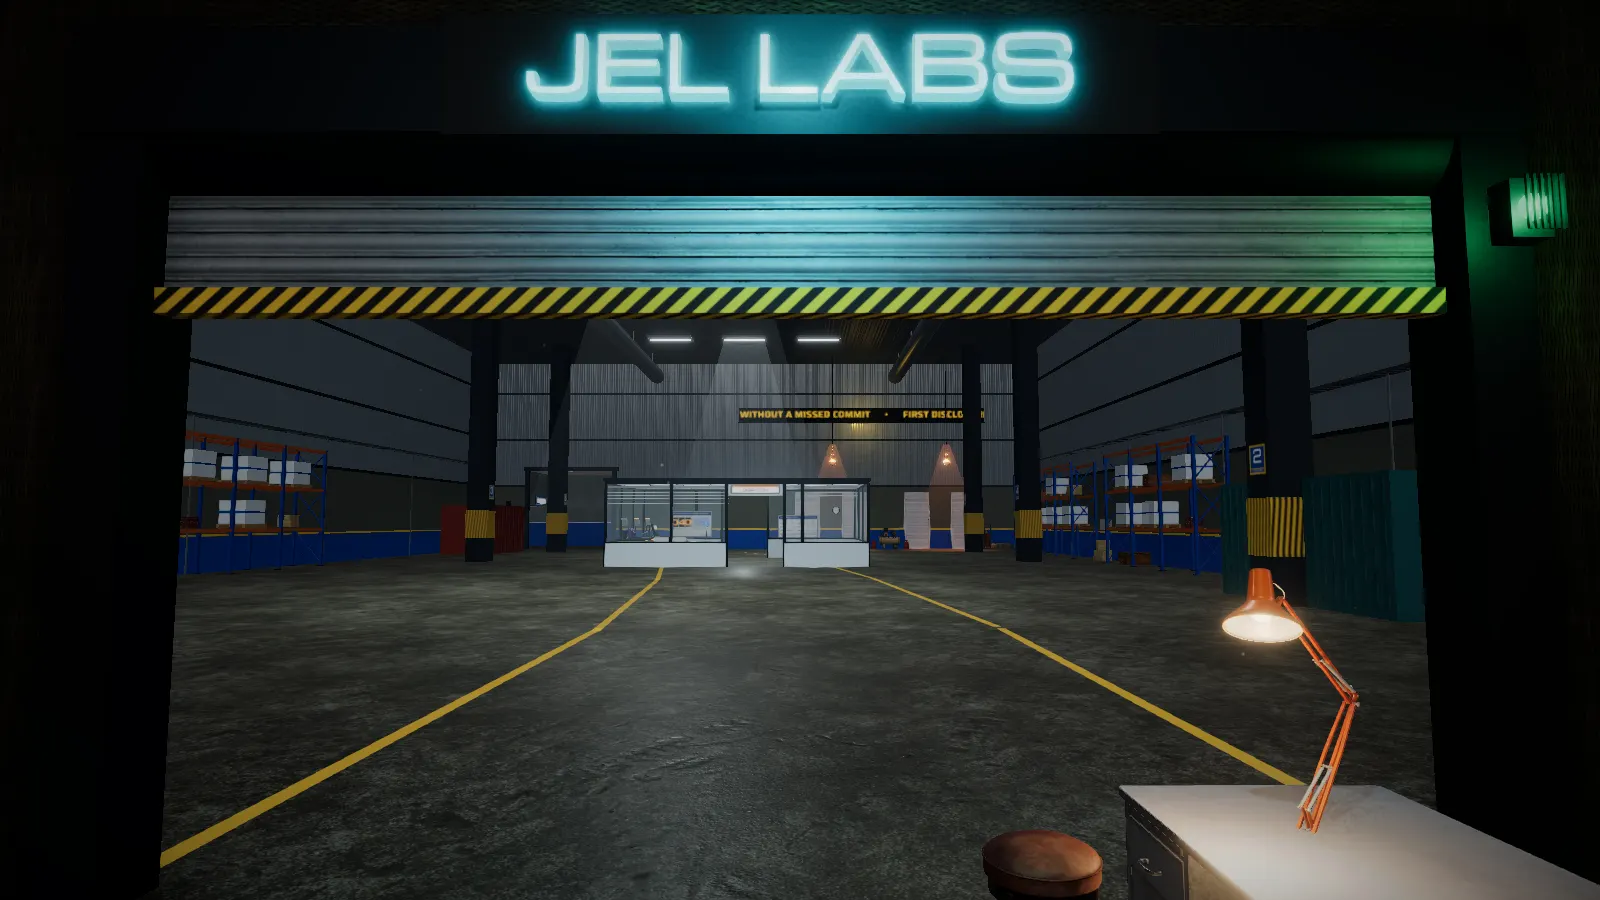
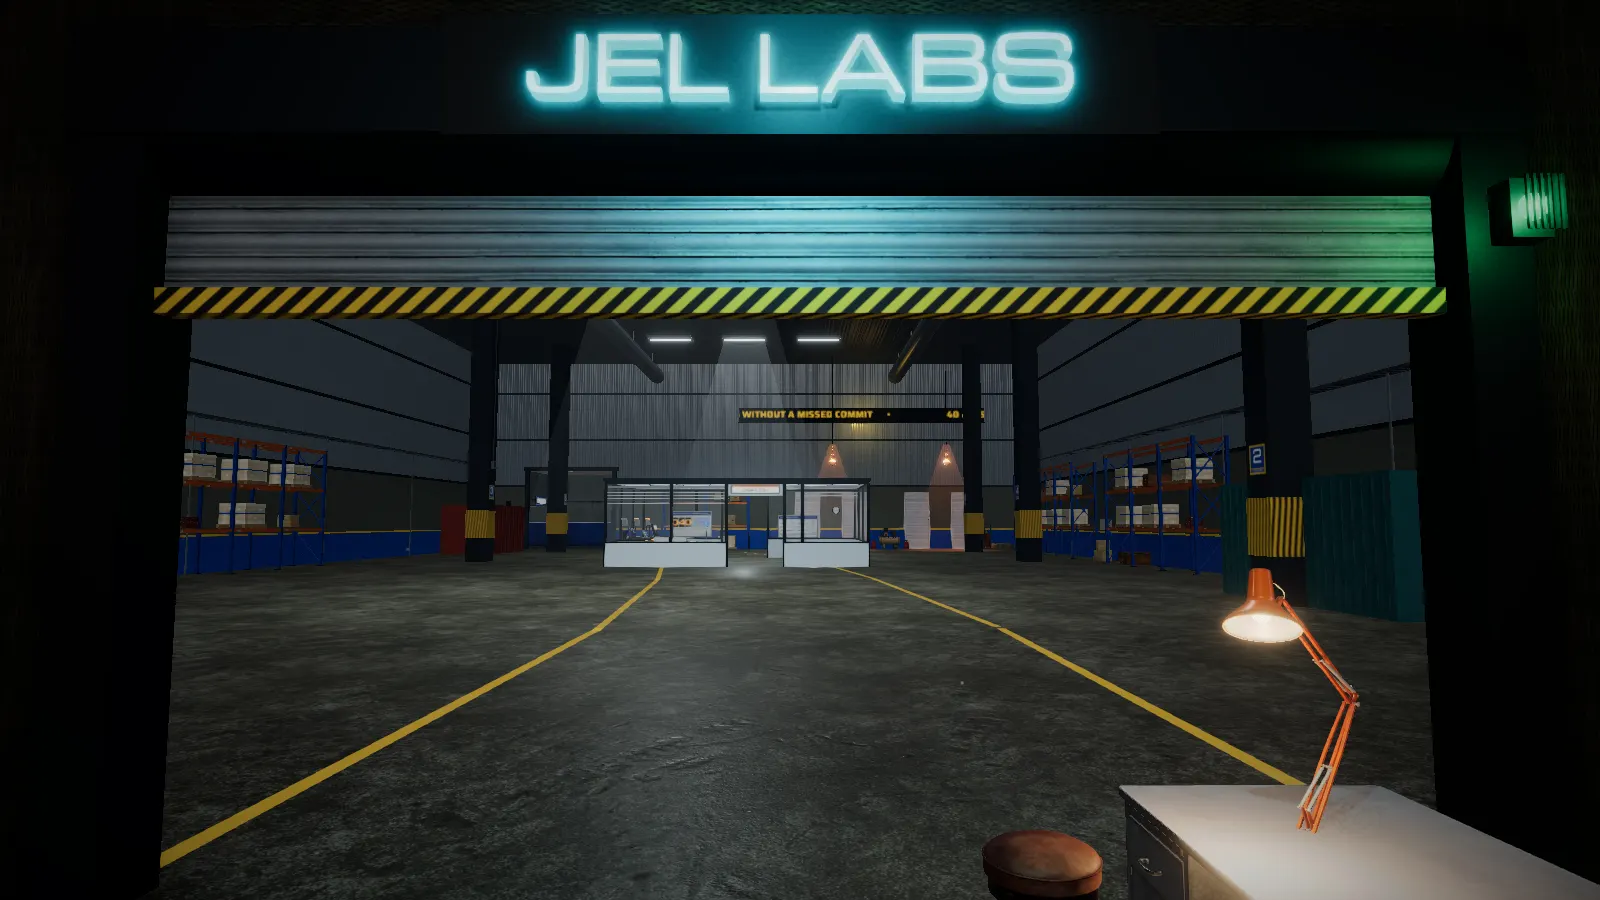
Stand the key up, wrap real stock, and let the plates be read
The key was drawn upright and then raked as if it lay flat, so the rake laid it on its back. It is
drawn face up like the other exhibits now and stands on a clear easel.

The wrapped pallets were milky boxes next to photographed cardboard. They are cartons under stretch
film now, on slatted pallets, and the racking has punched uprights and scuffed beams. The corridor
flight case lost the handle under its latches, which read as a face.

The break room television says JEL. The credential plates were lit past white, which washed out the
pale badges and the grey print, so the acrylic sits below clipping and the issuer line is darker.

diff --git a/src/scenes/walk/labs/props.ts b/src/scenes/walk/labs/props.ts
@@ -3,7 +3,7 @@ import type { AssetStore } from '../assets';
 import { instances, merged, type Spot } from '../merge';
 import { LABS, labSteel, labGlass, ceilingGrid } from './materials';
 import { stencilTexture } from '../textures';
-import { screenFace, paperSheet, chainlink, rng } from './textures';
+import { screenFace, paperSheet, chainlink, rng, canvas, own } from './textures';
 
 export function rackSlots(levels: number, height: number): number[] { return Array.from({ length: levels }, (_, i) => +(((i + 1) * height) / levels).toFixed(4)); }
 export { gridPitch } from './materials';
@@ -58,9 +58,10 @@ export function rackBays(bays: number, bayWidth = RACK_BAY): number[] {
 export function palletRack(bays = 3, levels = 3, bayWidth = RACK_BAY, height = RACK_HEIGHT): THREE.Group {
   const g = new THREE.Group(); const depth = RACK_DEPTH; const len = bays * bayWidth;
   const blue = new THREE.MeshStandardMaterial({ color: LABS.dado, roughness: 0.5, metalness: 0.4 });
+  const slotted = blue.clone(); slotted.map = uprightFace(height);
   const uprights: Spot[] = [], feet: Spot[] = [];
   for (let i = 0; i <= bays; i++) for (const z of [-depth / 2, depth / 2]) { uprights.push([-len / 2 + i * bayWidth, height / 2, z]); feet.push([-len / 2 + i * bayWidth, 0.01, z]); }
-  g.add(instances(new THREE.BoxGeometry(0.1, height, 0.1), blue, uprights));
+  g.add(instances(new THREE.BoxGeometry(0.1, height, 0.1), slotted, uprights));
   g.add(instances(new THREE.BoxGeometry(0.2, 0.02, 0.2), labSteel(0x39434b), feet));
   const level = height / levels;
   const braces: Spot[] = [];
@@ -68,7 +69,7 @@ export function palletRack(bays = 3, levels = 3, bayWidth = RACK_BAY, height = R
   for (const lean of [0.7, -0.7]) g.add(instances(new THREE.BoxGeometry(0.04, 1.5, 0.04).rotateX(lean), blue, braces));
   const beams: Spot[] = [];
   for (const y of rackSlots(levels, height)) for (const x of rackBays(bays, bayWidth)) for (const z of [-depth / 2, depth / 2]) beams.push([x, y - 0.08, z]);
-  g.add(instances(new THREE.BoxGeometry(bayWidth - 0.1, 0.12, 0.08), new THREE.MeshStandardMaterial({ color: 0xd8722c, roughness: 0.5, metalness: 0.4 }), beams));
+  g.add(instances(new THREE.BoxGeometry(bayWidth - 0.1, 0.12, 0.08), new THREE.MeshStandardMaterial({ color: 0xffffff, map: beamFace(), roughness: 0.5, metalness: 0.4 }), beams));
   // Wire decking, not a steel pan: the mesh is an alpha map on the deck, alpha tested so it writes
   // depth and keeps out of the transparent sort, and the beams show through the diamonds.
   const wire = chainlink(); wire.repeat.set(bayWidth / 0.2, depth / 0.2);
@@ -77,22 +78,132 @@ export function palletRack(bays = 3, levels = 3, bayWidth = RACK_BAY, height = R
   return g;
 }
 
-/** A shrink wrapped pallet of stock: three bearers and a deck under a load in milky film with a
- *  strap round its middle. `seed` picks the load's height, so a row of them is not a row of one
- *  box. 1.2 by 1.0 on plan, origin at the foot of the pallet. Three draw calls, so stand them up
- *  through `repeat()` rather than one at a time. */
+/** An upright's face: the Labs blue with the column of punched teardrop slots every rack upright
+ *  has for its beam connectors, 50 mm apart, and the paint chipped round a few of them where beams
+ *  have been moved. Tiled up the upright, one canvas to half a metre. */
+function uprightFace(height: number): THREE.CanvasTexture {
+  const W = 64, H = 320;
+  const [c, ctx] = canvas(W, H);
+  ctx.fillStyle = '#ffffff'; ctx.fillRect(0, 0, W, H);
+  const r = rng(5);
+  for (let y = 6; y < H; y += 32) {
+    if (r() < 0.25) { ctx.fillStyle = 'rgba(150,150,150,0.8)'; ctx.fillRect(W / 2 - 12, y - 3, 24, 26); }
+    ctx.fillStyle = '#10151b';
+    ctx.beginPath(); ctx.moveTo(W / 2 - 6, y); ctx.lineTo(W / 2 + 6, y); ctx.lineTo(W / 2 + 6, y + 10); ctx.lineTo(W / 2, y + 20); ctx.lineTo(W / 2 - 6, y + 10); ctx.closePath(); ctx.fill();
+  }
+  ctx.fillStyle = 'rgba(0,0,0,0.25)'; ctx.fillRect(0, 0, 3, H); ctx.fillRect(W - 3, 0, 3, H);
+  const t = own(c); t.wrapT = THREE.RepeatWrapping; t.repeat.set(1, height / 0.5);
+  return t;
+}
+
+/** A beam's face: safety orange with the stepped lip along its top edge in shadow, a load plate
+ *  near one end, and scuffs where pallets have been dragged along it. */
+function beamFace(): THREE.CanvasTexture {
+  const W = 1024, H = 48;
+  const [c, ctx] = canvas(W, H);
+  ctx.fillStyle = '#d8722c'; ctx.fillRect(0, 0, W, H);
+  ctx.fillStyle = 'rgba(0,0,0,0.35)'; ctx.fillRect(0, 0, W, 6);
+  ctx.fillStyle = 'rgba(255,255,255,0.12)'; ctx.fillRect(0, 7, W, 2);
+  ctx.fillStyle = 'rgba(0,0,0,0.2)'; ctx.fillRect(0, H - 3, W, 3);
+  ctx.fillStyle = '#e9ecee'; ctx.fillRect(70, 14, 56, 24);
+  ctx.fillStyle = '#23282d'; ctx.fillRect(76, 19, 40, 4); ctx.fillRect(76, 27, 28, 4);
+  const r = rng(9);
+  for (let i = 0; i < 40; i++) {
+    ctx.fillStyle = r() < 0.7 ? `rgba(40,30,24,${0.15 + r() * 0.25})` : `rgba(230,230,230,${0.2 + r() * 0.2})`;
+    ctx.fillRect(r() * W, 8 + r() * (H - 12), 6 + r() * 40, 1 + r() * 3);
+  }
+  return own(c);
+}
+
+/** A shrink wrapped pallet of stock: a slatted deck on three stringers under a stack of cartons in
+ *  stretch film, with a strap round the middle. `seed` picks the load's height and how the cartons
+ *  are stacked, so a row of them is not a row of one box. 1.2 by 1.0 on plan, origin at the foot
+ *  of the pallet. Three draw calls, so stand them up through `repeat()` rather than one at a time.
+ *
+ *  The load used to be a milky box with no surface at all, which read as a block of plaster next
+ *  to the photographed cardboard boxes on the same racks. It is the cartons now, drawn under the
+ *  film: kraft faces, seams, tape and a label, with the wrap's bands and sheen over them. */
 export function wrappedPallet(seed = 1): THREE.Group {
   const g = new THREE.Group();
   const r = rng(seed);
-  const boards: THREE.BufferGeometry[] = [new THREE.BoxGeometry(1.2, 0.02, 1.0).translate(0, 0.11, 0)];
-  for (const z of [-0.45, 0, 0.45]) boards.push(new THREE.BoxGeometry(1.2, 0.1, 0.1).translate(0, 0.05, z));
-  g.add(merged(boards, new THREE.MeshStandardMaterial({ color: 0x9c7f5a, roughness: 0.9 })));
-  const h = 0.7 + r() * 0.6;
-  const load = new THREE.Mesh(new THREE.BoxGeometry(1.1, h, 0.9), new THREE.MeshPhysicalMaterial({ color: 0xdfe6ea, transmission: 0, roughness: 0.35, transparent: true, opacity: 0.85 }));
+  const boards: THREE.BufferGeometry[] = [];
+  for (let i = 0; i < 7; i++) boards.push(new THREE.BoxGeometry(0.14, 0.022, 1.0).translate(-0.53 + i * (1.06 / 6), 0.109, 0));
+  for (const z of [-0.45, 0, 0.45]) boards.push(new THREE.BoxGeometry(1.2, 0.098, 0.1).translate(0, 0.049, z));
+  g.add(merged(boards, new THREE.MeshStandardMaterial({ color: 0x9c7f5a, roughness: 0.92 })));
+  const rows = 2 + Math.floor(r() * 2), h = rows * 0.36;
+  const geo = new THREE.BoxGeometry(1.1, h, 0.9);
+  // One texture for the whole load: the sides from its left three quarters, the carton tops from
+  // the last quarter. The faces are ordered +x, -x, +y, -y, +z, -z, four vertices each.
+  const uv = geo.getAttribute('uv') as THREE.BufferAttribute;
+  for (let f = 0; f < 6; f++) for (let v = f * 4; v < f * 4 + 4; v++) {
+    uv.setX(v, f === 2 || f === 3 ? 0.75 + uv.getX(v) * 0.25 : uv.getX(v) * 0.75);
+  }
+  const film = wrappedLoad(rows, seed);
+  const load = new THREE.Mesh(geo, new THREE.MeshPhysicalMaterial({ map: film, roughness: 0.62, clearcoat: 0.7, clearcoatRoughness: 0.28 }));
   load.position.y = 0.12 + h / 2; g.add(load);
-  const strap = new THREE.Mesh(new THREE.BoxGeometry(1.12, 0.05, 0.92), new THREE.MeshStandardMaterial({ color: LABS.dado, roughness: 0.7 }));
-  strap.position.y = 0.12 + h / 2; g.add(strap);
+  const strap = new THREE.Mesh(new THREE.BoxGeometry(1.106, 0.035, 0.906), new THREE.MeshStandardMaterial({ color: LABS.dado, roughness: 0.7 }));
+  strap.position.y = 0.12 + h * (0.45 + r() * 0.15); g.add(strap);
   return g;
+}
+
+/** The carton stack under stretch film, as one canvas: 768 by 512 of side for a face 1.1 wide and
+ *  `rows` cartons tall, then 256 of carton tops. */
+function wrappedLoad(rows: number, seed: number): THREE.CanvasTexture {
+  const W = 1024, H = 512, SW = 768;
+  const [c, ctx] = canvas(W, H);
+  const r = rng(seed * 7 + 3);
+  const carton = (x: number, y: number, w: number, h: number, top: boolean) => {
+    const tone = 150 + Math.floor(r() * 26);
+    ctx.fillStyle = `rgb(${tone + 22},${tone - 6},${tone - 52})`; ctx.fillRect(x, y, w, h);
+    for (let i = 0; i < 60; i++) {
+      ctx.fillStyle = `rgba(${r() < 0.5 ? '255,235,200' : '60,40,20'},${0.04 + r() * 0.05})`;
+      ctx.fillRect(x + r() * w, y + r() * h, 2 + r() * 30, 1 + r() * 3);
+    }
+    ctx.fillStyle = 'rgba(40,26,12,0.55)'; ctx.fillRect(x, y, w, 3); ctx.fillRect(x, y, 3, h);
+    // The tape: across the flaps on a top, down the join on a side.
+    ctx.fillStyle = 'rgba(214,190,140,0.75)';
+    if (top) ctx.fillRect(x + w / 2 - 9, y, 18, h); else ctx.fillRect(x, y, w, 12);
+    if (!top && r() < 0.55) {
+      const lx = x + 18 + r() * (w - 110), ly = y + 26 + r() * (h - 90);
+      ctx.fillStyle = '#eceae2'; ctx.fillRect(lx, ly, 76, 50);
+      ctx.fillStyle = '#23282d';
+      for (let b = 0; b < 16; b++) ctx.fillRect(lx + 6 + b * 4, ly + 28, r() < 0.5 ? 1 : 2, 16);
+      ctx.fillRect(lx + 6, ly + 8, 44, 5); ctx.fillRect(lx + 6, ly + 17, 30, 4);
+    }
+    if (!top && r() < 0.4) {
+      ctx.strokeStyle = 'rgba(30,24,18,0.7)'; ctx.lineWidth = 4;
+      const ax = x + w - 34, ay = y + h - 30;
+      ctx.beginPath(); ctx.moveTo(ax, ay); ctx.lineTo(ax, ay - 34); ctx.moveTo(ax - 9, ay - 24); ctx.lineTo(ax, ay - 34); ctx.lineTo(ax + 9, ay - 24); ctx.stroke();
+    }
+  };
+  // The side: rows of cartons, the joints staggered row to row the way a stack is built.
+  const rh = H / rows;
+  for (let row = 0; row < rows; row++) {
+    const n = 3 + (row % 2), cw = SW / n, off = row % 2 ? -cw / 2 : 0;
+    for (let i = 0; i <= n; i++) carton(off + i * cw, row * rh, cw, rh, false);
+  }
+  for (let i = 0; i < 2; i++) for (let j = 0; j < 2; j++) carton(SW + i * 128, j * 256, 128, 256, true);
+  // The film over it all: a milky veil, heavier where the wrap doubles at the top and the foot,
+  // bands where each pass of the roll overlaps the last, and vertical sheen along the stretch.
+  const veil = ctx.createLinearGradient(0, 0, 0, H);
+  veil.addColorStop(0, 'rgba(236,240,244,0.55)'); veil.addColorStop(0.18, 'rgba(236,240,244,0.26)');
+  veil.addColorStop(0.8, 'rgba(236,240,244,0.24)'); veil.addColorStop(1, 'rgba(236,240,244,0.6)');
+  ctx.fillStyle = veil; ctx.fillRect(0, 0, SW, H);
+  ctx.fillStyle = 'rgba(236,240,244,0.3)'; ctx.fillRect(SW, 0, W - SW, H);
+  for (let y = 30 + r() * 30; y < H; y += 60 + r() * 50) {
+    ctx.fillStyle = `rgba(245,248,250,${0.12 + r() * 0.12})`;
+    ctx.beginPath(); ctx.moveTo(0, y); ctx.lineTo(SW, y - 30 + r() * 60); ctx.lineTo(SW, y + 10 + r() * 40); ctx.lineTo(0, y + 22); ctx.fill();
+  }
+  for (let i = 0; i < 26; i++) {
+    const x = r() * SW, w = 3 + r() * 16;
+    ctx.fillStyle = `rgba(255,255,255,${0.05 + r() * 0.12})`; ctx.fillRect(x, 0, w, H);
+  }
+  for (let i = 0; i < 18; i++) {
+    ctx.strokeStyle = `rgba(255,255,255,${0.1 + r() * 0.2})`; ctx.lineWidth = 1 + r() * 2;
+    const x = r() * SW, y = r() * H;
+    ctx.beginPath(); ctx.moveTo(x, y); ctx.quadraticCurveTo(x + 20 - r() * 40, y + 30, x + 30 - r() * 60, y + 60 + r() * 60); ctx.stroke();
+  }
+  return own(c);
 }
 
 /** A 20 ft shipping container, 6.1 by 2.6 by 2.4, ribbed sides. Origin at floor centre, long axis

diff --git a/src/scenes/walk/stages/fabrication/exhibits.ts b/src/scenes/walk/stages/fabrication/exhibits.ts
@@ -81,33 +81,35 @@ export function controller(model: THREE.Object3D): THREE.Group {
 
 /**
  * ezkey.io: a key store, so a key. Brushed steel, a round bow with the product's cyan lit through
- * it, a long shaft and three bits standing up off it. It lies on its side across the cap, leaning
- * back a little on the stand, because the classic silhouette is the side view: stood on end and
- * raked toward the eye it read as a lollipop and hid its own label.
+ * it, a long shaft and three bits along its top edge, stood on a clear easel and leaned back the
+ * way a shop shows one.
+ *
+ * It is drawn face up on the y 0 plane like the other two, with its bits toward -z, the edge that
+ * ends up on top once the group is raked. It used to be drawn standing in the xy plane and then
+ * raked as if it lay flat, so the rake laid it on its back instead of standing it up: from the hold
+ * the bow was a disc seen edge on and the bits pointed at the lens.
  */
 export function key(): THREE.Group {
+  const LEAN = 1.15, BOW = 0.135, T = 0.03;
   const g = new THREE.Group();
-  // Raked to 1.15 rather than 0.6. At 0.6 the key is 34 degrees off the cap, which from the hold is
-  // a key seen almost down its own plane: the bow foreshortens into a sliver and the bits along the
-  // shaft disappear. Near upright it is the silhouette a key is recognised by, presented flat to
-  // the lens. The old note against standing it up was about standing it on its end, which turns it
-  // into a lollipop, not about raising the rake.
-  const LEAN = 1.15, PIVOT = 0.2;
-  const tilt = new THREE.Group(); tilt.rotation.x = LEAN; tilt.position.y = PIVOT; g.add(tilt);
+  // The low edge is the bow's rim toward +z, so the pivot sets that rim on the easel's base plate.
+  const pivot = BOW * Math.sin(LEAN) + (T / 2) * Math.cos(LEAN) + 0.014;
+  const tilt = new THREE.Group(); tilt.rotation.x = LEAN; tilt.position.y = pivot; g.add(tilt);
   const steel = [
-    new THREE.TorusGeometry(0.105, 0.03, 10, 28).translate(-0.22, 0, 0),
-    new THREE.BoxGeometry(0.5, 0.06, 0.03).translate(0.11, 0, 0),
-    new THREE.BoxGeometry(0.06, 0.04, 0.03).translate(0.38, 0, 0),
-    new THREE.BoxGeometry(0.045, 0.075, 0.03).translate(0.13, 0.06, 0),
-    new THREE.BoxGeometry(0.045, 0.09, 0.03).translate(0.215, 0.068, 0),
-    new THREE.BoxGeometry(0.045, 0.065, 0.03).translate(0.3, 0.055, 0),
+    new THREE.TorusGeometry(0.105, T, 10, 28).rotateX(-Math.PI / 2).translate(-0.22, 0, 0),
+    new THREE.BoxGeometry(0.5, T, 0.06).translate(0.11, 0, 0),
+    new THREE.BoxGeometry(0.06, T, 0.04).translate(0.38, 0, 0),
+    new THREE.BoxGeometry(0.045, T, 0.075).translate(0.13, 0, -0.06),
+    new THREE.BoxGeometry(0.045, T, 0.09).translate(0.215, 0, -0.068),
+    new THREE.BoxGeometry(0.045, T, 0.065).translate(0.3, 0, -0.055),
   ];
   tilt.add(merged(steel, shell(0xd6dde2, 0.3, 0.8)));
-  const inlay = new THREE.Mesh(new THREE.CircleGeometry(0.08, 24), new THREE.MeshStandardMaterial({ color: 0x06131a, emissive: 0x6ec1d6, emissiveIntensity: 1.8, side: THREE.DoubleSide }));
+  const inlay = new THREE.Mesh(new THREE.CircleGeometry(0.08, 24).rotateX(-Math.PI / 2), new THREE.MeshStandardMaterial({ color: 0x06131a, emissive: 0x6ec1d6, emissiveIntensity: 1.8, side: THREE.DoubleSide }));
   inlay.position.set(-0.22, 0, 0); tilt.add(inlay);
-  // Its own stand: the key's plane is upright, so the rail is a clear sheet behind it.
-  const rail = new THREE.Mesh(new THREE.BoxGeometry(0.76, 0.3, 0.012), acrylic()); rail.position.set(0.05, 0.02, -0.024); tilt.add(rail);
-  const base = new THREE.Mesh(new THREE.BoxGeometry(0.86, 0.012, 0.28), acrylic()); base.position.set(0.05, 0.006, 0.04); g.add(base);
+  // The easel: a clear back behind the key and a lip under the bow that it rests on.
+  stand(g, tilt, pivot, { w: 0.8, back: T / 2 + 0.008, from: -0.19 }, LEAN);
+  const lip = new THREE.Mesh(new THREE.BoxGeometry(0.8, 0.05, 0.012), acrylic());
+  lip.position.set(0, 0.025 - T / 2, BOW + 0.008); tilt.add(lip);
   return g;
 }
 

diff --git a/src/scenes/walk/labs/furniture.ts b/src/scenes/walk/labs/furniture.ts
@@ -642,19 +642,37 @@ export function tripodCamera(): THREE.Group {
   return g;
 }
 
-/** A moulded flight case: coloured shell, a lid seam, two latches and a handle. 0.6 by 0.4 on plan,
- *  origin at floor centre, latches facing +z. Three draw calls. */
+/** A moulded flight case: coloured shell, a lid proud of it at the seam, two latches bridging the
+ *  seam and a fold down handle on each end, so the lid stays flat and a second case stacks on it.
+ *  The front used to carry the handle as a bar under the latches, and two latches over a bar is a
+ *  face. 0.6 by 0.4 on plan, 0.45 tall, origin at floor centre, latches facing +z. Three draw calls. */
 export function hardCase(color = 0xe07a2a): THREE.Group {
   const g = new THREE.Group();
-  const shell = new THREE.Mesh(new THREE.BoxGeometry(0.6, 0.45, 0.4), new THREE.MeshStandardMaterial({ color, roughness: 0.55 }));
-  shell.position.y = 0.225; g.add(shell);
-  const seam = new THREE.Mesh(new THREE.BoxGeometry(0.61, 0.02, 0.41), new THREE.MeshStandardMaterial({ color: new THREE.Color(color).multiplyScalar(0.7), roughness: 0.6 }));
-  seam.position.y = 0.31; g.add(seam);
-  g.add(merged([
-    new THREE.BoxGeometry(0.08, 0.05, 0.02).translate(-0.18, 0.27, 0.21),
-    new THREE.BoxGeometry(0.08, 0.05, 0.02).translate(0.18, 0.27, 0.21),
-    new THREE.BoxGeometry(0.22, 0.03, 0.03).translate(0, 0.14, 0.215),
-  ], new THREE.MeshStandardMaterial({ color: 0x14191d, roughness: 0.5 })));
+  const W = 0.6, H = 0.45, D = 0.4, SEAM = 0.31;
+  // The shell: a body and a lid a touch proud of it at the seam, with the ribs moulded across the
+  // lid's face and down each end, all in the case's colour.
+  const body: THREE.BufferGeometry[] = [
+    new THREE.BoxGeometry(W - 0.02, SEAM - 0.02, D - 0.02).translate(0, 0.01 + (SEAM - 0.02) / 2, 0),
+    new THREE.BoxGeometry(W, H - SEAM - 0.012, D).translate(0, SEAM + (H - SEAM - 0.012) / 2, 0),
+    new THREE.BoxGeometry(W + 0.012, 0.03, D + 0.012).translate(0, SEAM - 0.005, 0),
+  ];
+  for (const x of [-0.2, 0, 0.2]) body.push(new THREE.BoxGeometry(0.03, 0.012, D - 0.06).translate(x, H - 0.006, 0));
+  for (const side of [-1, 1]) body.push(new THREE.BoxGeometry(0.012, 0.22, 0.05).translate(side * (W / 2), 0.16, 0));
+  g.add(merged(body, new THREE.MeshStandardMaterial({ color, roughness: 0.62 })));
+  // Two steel latches bridging the seam, near the ends, and a white asset label off centre. Dark
+  // latches on a bright shell read as a pair of eyes.
+  const steel: THREE.BufferGeometry[] = [];
+  for (const x of [-0.22, 0.22]) {
+    steel.push(new THREE.BoxGeometry(0.045, 0.075, 0.014).translate(x, SEAM, D / 2 + 0.008));
+    steel.push(new THREE.BoxGeometry(0.035, 0.012, 0.02).translate(x, SEAM + 0.032, D / 2 + 0.012));
+  }
+  steel.push(new THREE.BoxGeometry(0.13, 0.06, 0.004).translate(-0.06, 0.17, D / 2 - 0.008));
+  g.add(merged(steel, new THREE.MeshStandardMaterial({ color: 0xb4bcc1, roughness: 0.35, metalness: 0.7 })));
+  // The black hardware: a handle folded flat on each end, and four feet.
+  const black: THREE.BufferGeometry[] = [];
+  for (const side of [-1, 1]) black.push(new THREE.BoxGeometry(0.012, 0.03, 0.16).translate(side * (W / 2 - 0.002), 0.22, 0));
+  for (const x of [-W / 2 + 0.05, W / 2 - 0.05]) for (const z of [-D / 2 + 0.05, D / 2 - 0.05]) black.push(new THREE.BoxGeometry(0.05, 0.01, 0.05).translate(x, 0.005, z));
+  g.add(merged(black, new THREE.MeshStandardMaterial({ color: 0x14191d, roughness: 0.5 })));
   return g;
 }
 

diff --git a/src/scenes/walk/stages/credentials/dressing.ts b/src/scenes/walk/stages/credentials/dressing.ts
@@ -21,7 +21,7 @@ export interface Dressing {
 /** The ink on a plate: dark enough to read as print on a lit panel rather than as a second light. */
 const INK = '#1e2c3a';
 /** The issuer line, a step lighter than the name so the two read as a hierarchy. */
-const INK_SOFT = '#4f6070';
+const INK_SOFT = '#34434f';
 
 /** One exhibit plate: the acrylic face is `w` by `h` with its centre at `y`, the badge a square of
  *  `badge` on a side centred `badgeY` up the face. The plate hangs from the lab's ceiling on two
@@ -116,8 +116,8 @@ export function plateFace(name: string, issuer: string, index: number): THREE.Ca
   const ruleY = nameY + ((lines.length - 1) / 2) * lead + px * 0.95;
   ctx.fillStyle = 'rgba(30,44,58,0.28)'; ctx.fillRect(W / 2 - 120, ruleY, 240, 2);
   // The issuer, tracked out in caps under the rule: it is the authority, not a caption.
-  ctx.fillStyle = INK_SOFT; ctx.font = '600 30px Inter, "Segoe UI", system-ui, sans-serif'; spacing(7);
-  ctx.fillText(issuer.toUpperCase(), W / 2, ruleY + 46);
+  ctx.fillStyle = INK_SOFT; ctx.font = '700 38px Inter, "Segoe UI", system-ui, sans-serif'; spacing(7);
+  ctx.fillText(issuer.toUpperCase(), W / 2, ruleY + 52);
   spacing(0);
   // The foot line.
   ctx.fillStyle = accent; ctx.fillRect(0, Hpx - 5, W, 5);
@@ -164,9 +164,11 @@ function exhibitPlate(face: THREE.Texture, badge: THREE.Mesh): THREE.Group {
   }
   g.add(merged(parts, bright));
   // The face, recessed inside the bevel. Lit from behind at a level that leaves the badge in front
-  // of it the brightest thing on the plate.
+  // of it the brightest thing on the plate. The albedo is held down under white on purpose: at full
+  // white the room's own lights on top of the glow ran the acrylic past the top of the range, and a
+  // clipped face swallowed every pale badge and the grey print along with it.
   const acrylic = new THREE.Mesh(new THREE.PlaneGeometry(w - 2 * bevel, h - 2 * bevel), new THREE.MeshStandardMaterial({
-    color: 0xffffff, map: face, roughness: 0.55, emissive: 0xffffff, emissiveMap: face, emissiveIntensity: 0.35,
+    color: 0xc4ced4, map: face, roughness: 0.7, emissive: 0xffffff, emissiveMap: face, emissiveIntensity: 0.2,
   }));
   acrylic.position.set(0, y, 0); g.add(acrylic);
   badge.position.set(0, PLATE.badgeY, 0.006); g.add(badge);

diff --git a/src/scenes/walk/labs/textures.ts b/src/scenes/walk/labs/textures.ts
@@ -98,7 +98,8 @@ export function screenFace(lines: string[], accent = '#6EC1D6', w = 512, h = 320
  * The break room television's idle picture: the Labs mark, large, over the word, on the deep blue
  * a set shows between programmes. Colour and emissive map, 4:3. It was a status board of three
  * rows, which from the walk was text too small to read: "id rather lose visibility and just do a
- * logo or something than text thats hard to read". A mark reads at any size and any angle.
+ * logo or something than text thats hard to read". A mark reads at any size and any angle. The
+ * word is JEL, the building's own name, not LABS.
  */
 export function labsIdent(): THREE.CanvasTexture {
   const w = 640, h = 480;
@@ -114,8 +115,8 @@ export function labsIdent(): THREE.CanvasTexture {
     ctx.lineTo(mx + s * 0.5, my + dy + s * 0.28); ctx.lineTo(mx, my + dy - s * 0.22); ctx.lineTo(mx - s * 0.5, my + dy + s * 0.28); ctx.closePath(); ctx.fill();
   }
   ctx.textAlign = 'center'; ctx.textBaseline = 'alphabetic';
-  ctx.font = '600 92px Michroma, system-ui, sans-serif';
-  ctx.fillText('LABS', mx, h * 0.84);
+  ctx.font = '600 104px Michroma, system-ui, sans-serif';
+  ctx.fillText('JEL', mx, h * 0.86);
   ctx.fillStyle = 'rgba(0,0,0,0.25)'; for (let y = 0; y < h; y += 4) ctx.fillRect(0, y, w, 1);
   return own(c);
 }
